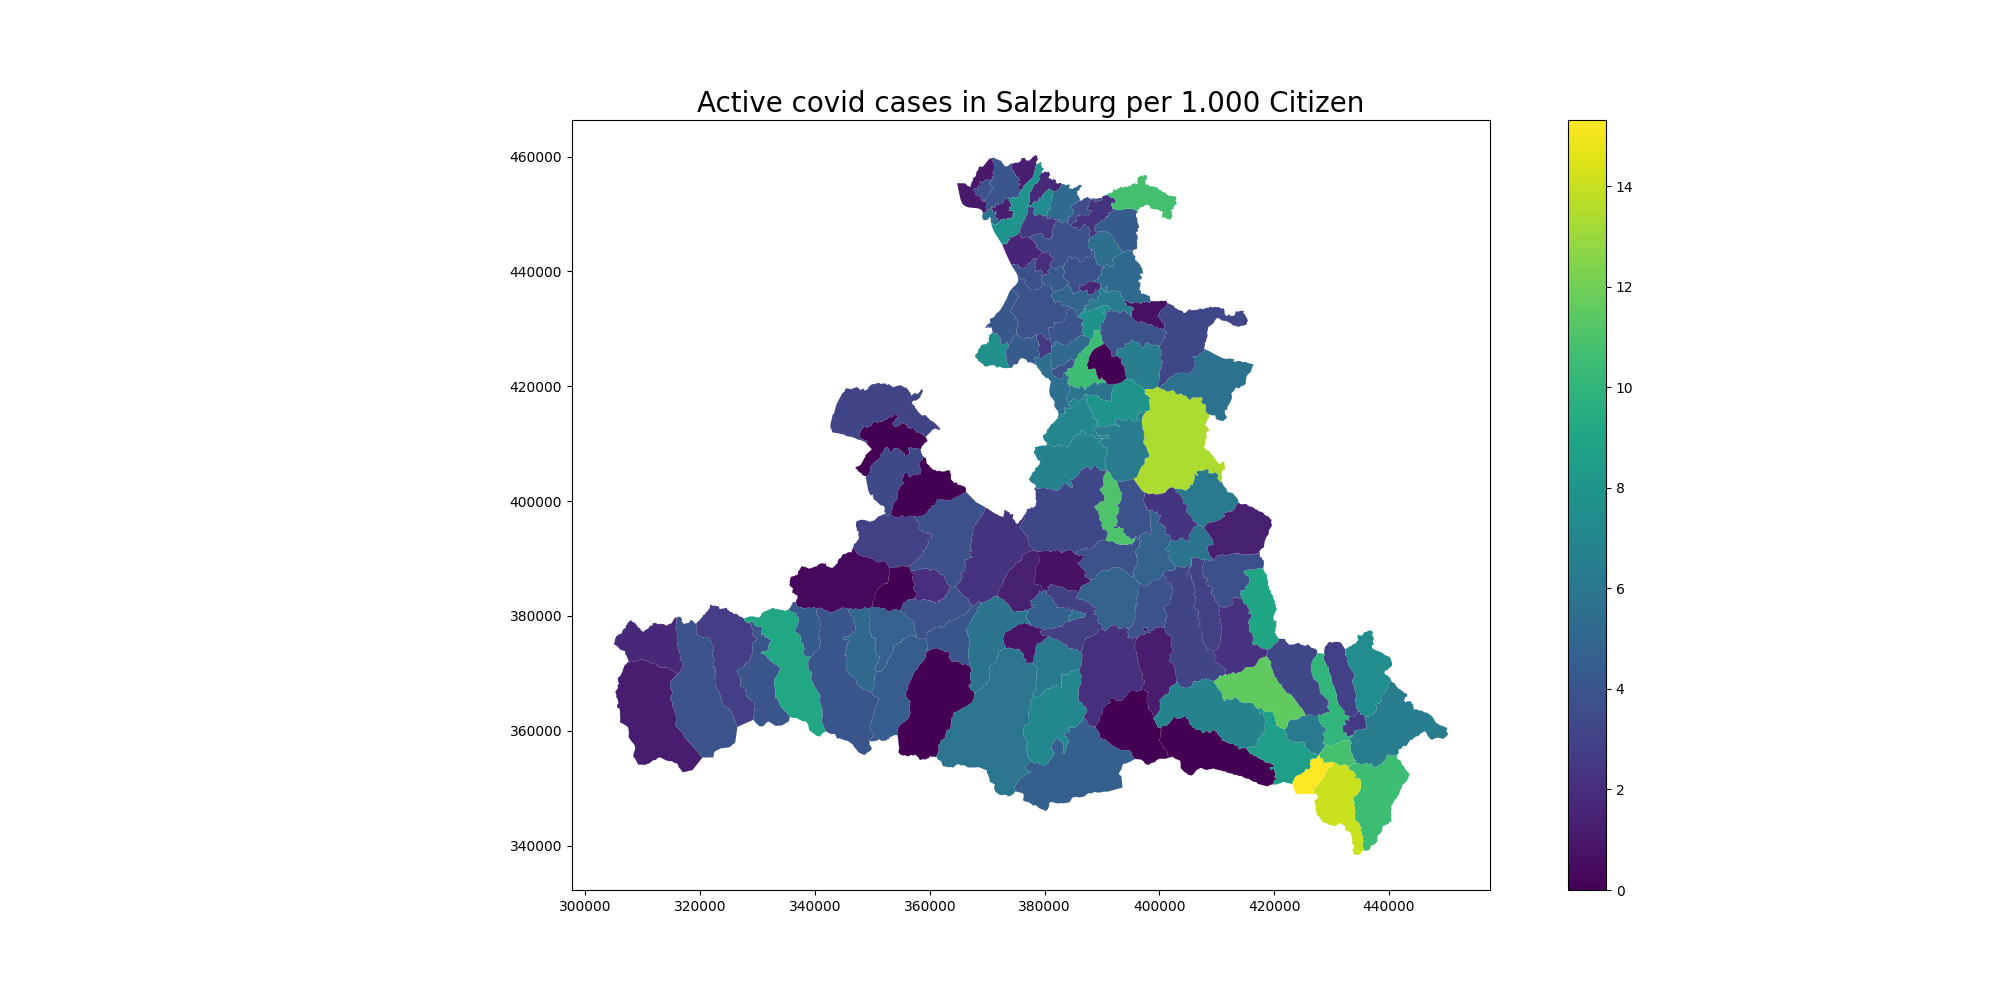
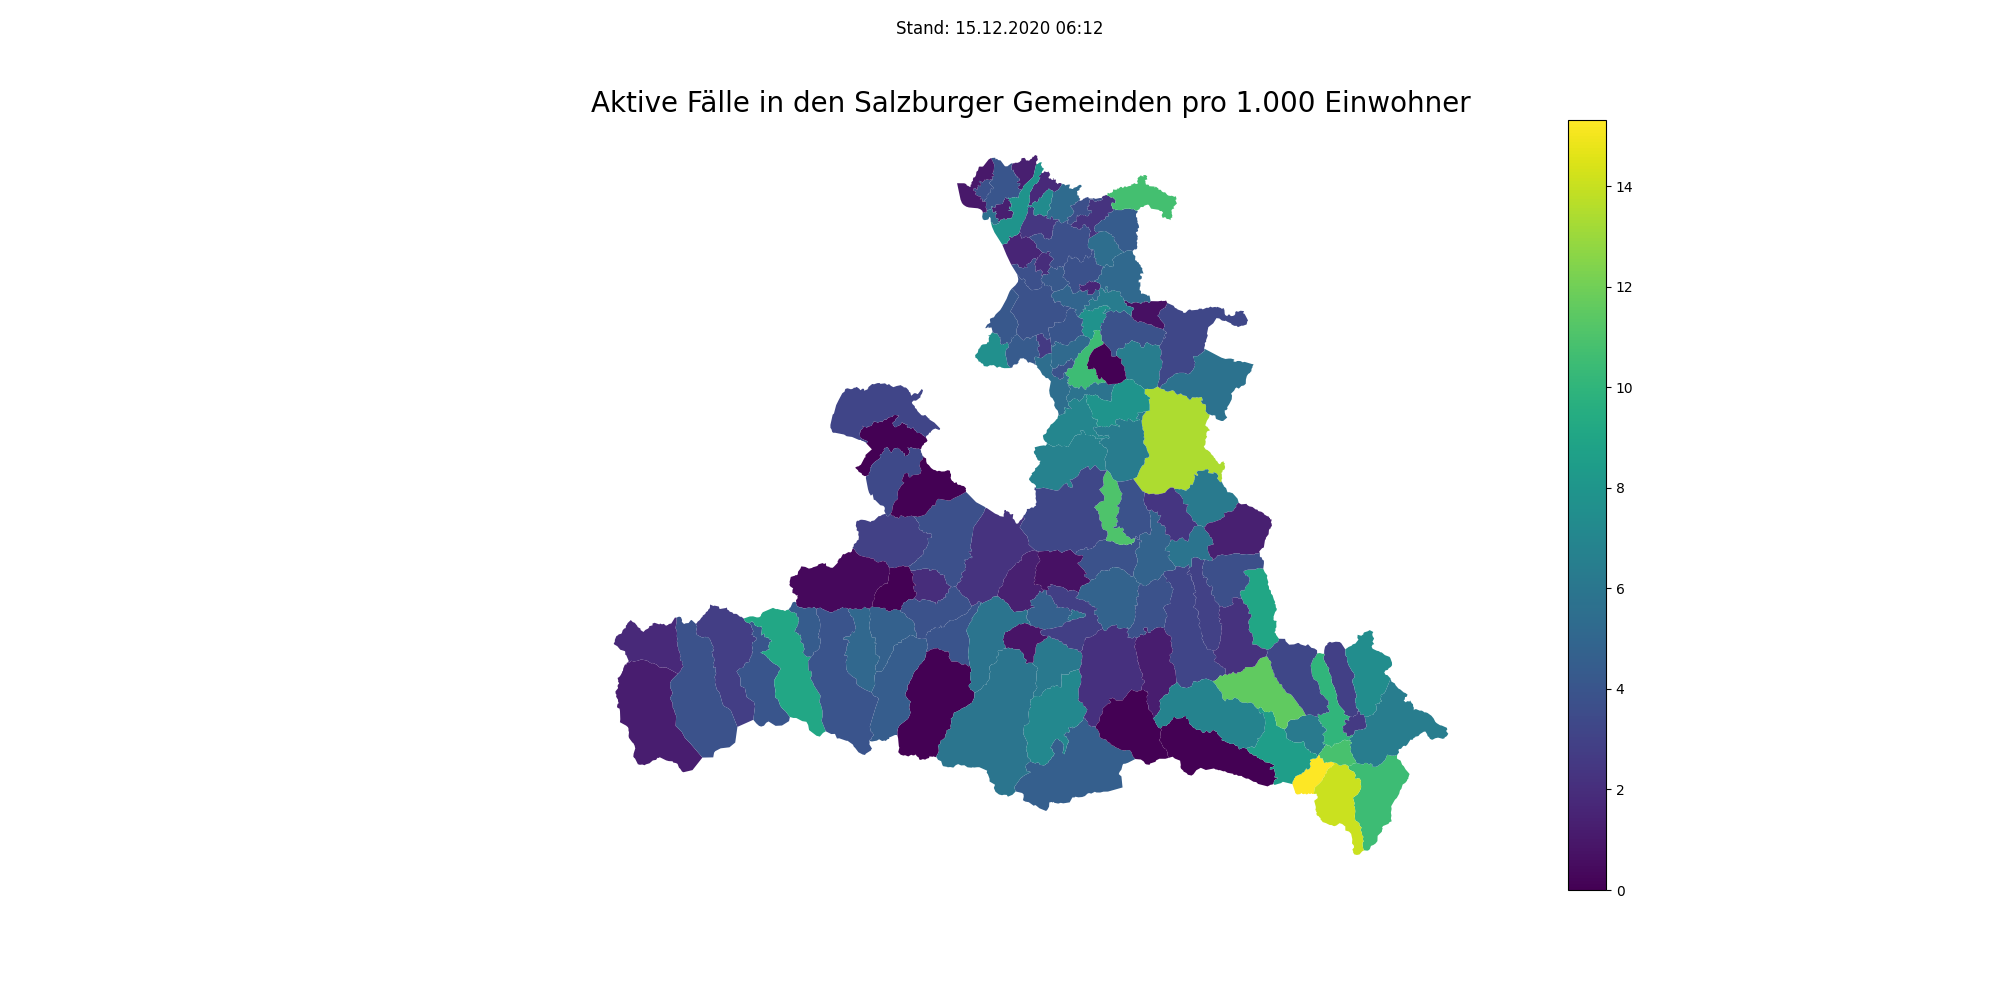
change title and some styling

diff --git a/docs/css/main.css b/docs/css/main.css
@@ -38,3 +38,7 @@ nav a:after {
 h2 .population {
     font-size: smaller;
 }
+
+img {
+    width: 100%;
+}

diff --git a/src/map.py b/src/map.py
@@ -1,7 +1,9 @@
+import json
+from datetime import datetime
+
 import geopandas as gpd
 import matplotlib.pyplot as plt
 import pandas as pd
-import json
 
 
 def main():
@@ -14,6 +16,7 @@ def main():
 
     # get Up to date covid Data
     covidData = pd.read_csv(report_dir + 'aktiv.csv').set_index('Gemeinde')
+    last_updated = datetime.strptime(covidData.columns[-1], "%Y-%m-%dT%H:%M:%S.%fZ")
     # rename last column
     covidData.columns = [*covidData.columns[:-1], 'aktiv']
 
@@ -38,7 +41,9 @@ def main():
 
     plot_data = salzburg.join(covid_data)[['relativeActive', 'geometry']]
     plot_data.plot(column='relativeActive', figsize=(20, 10), legend=True)
-    plt.title('Active covid cases in Salzburg per 1.000 Citizen', fontsize=20)
+    plt.axis('off')
+    plt.title('Aktive Fälle in den Salzburger Gemeinden pro 1.000 Einwohner', fontsize=20)
+    plt.suptitle('Stand: ' + last_updated.strftime('%d.%m.%Y %H:%m'))
     plt.savefig(report_dir + "aktiv.png")
 
 
